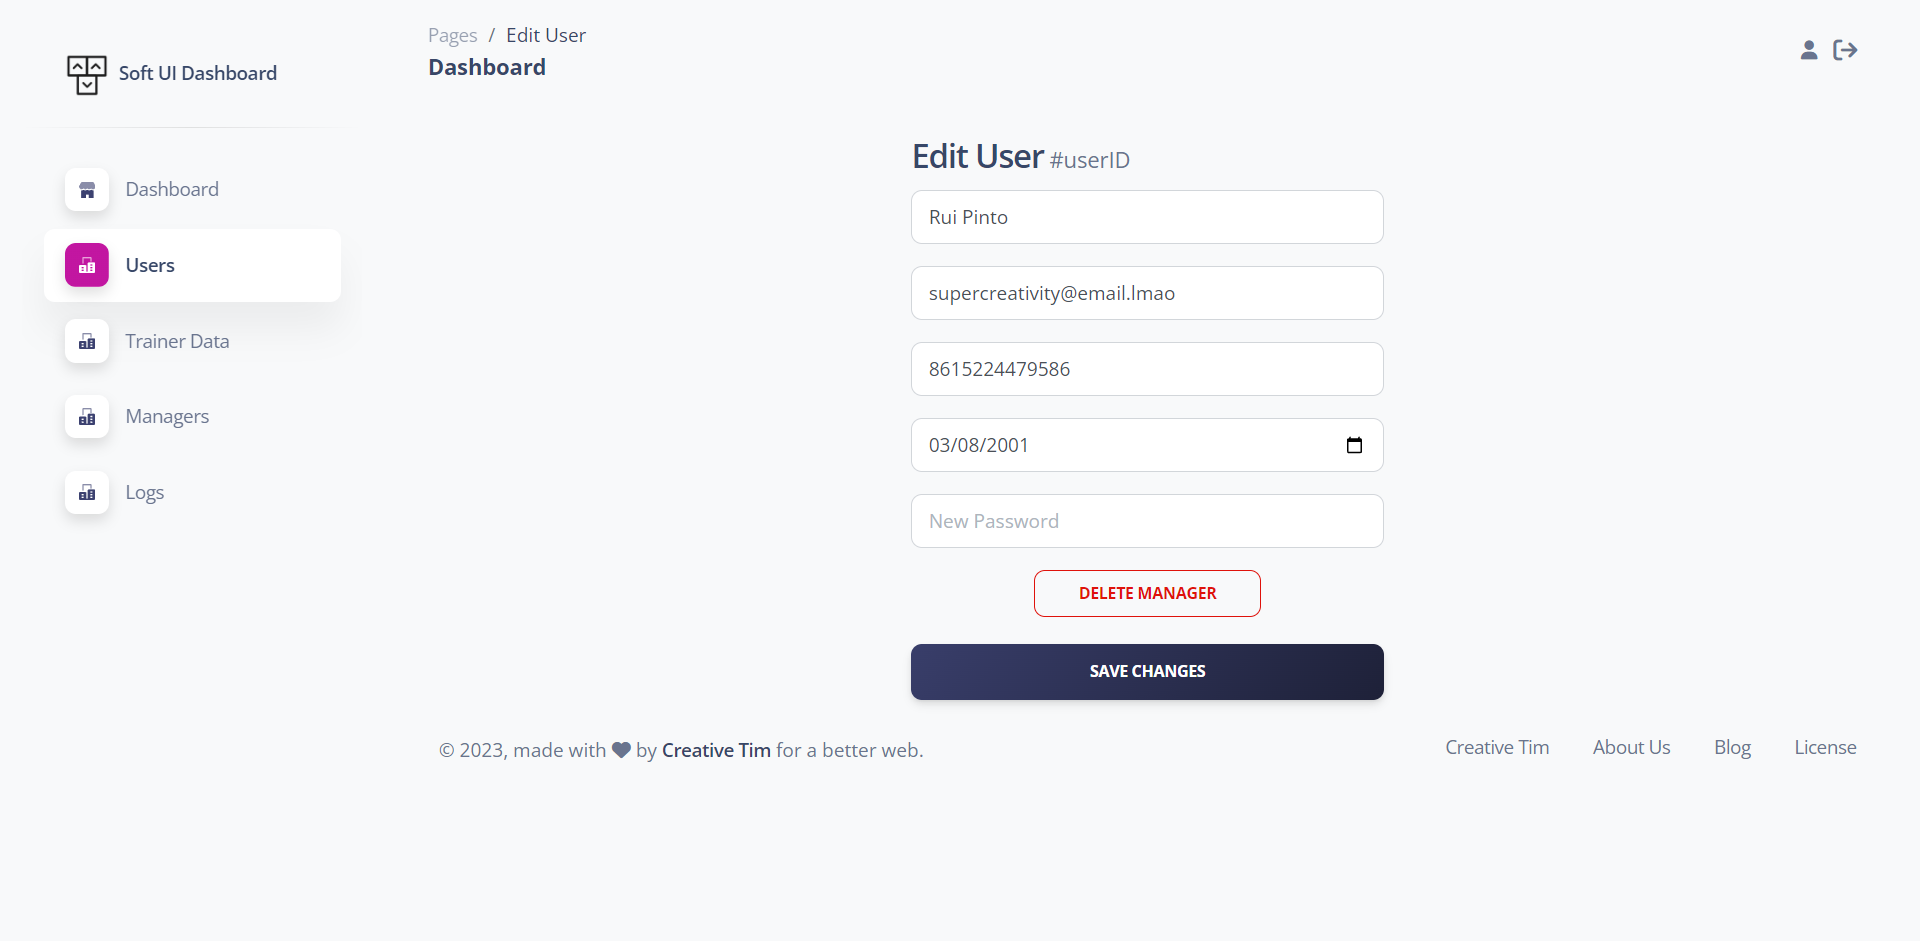
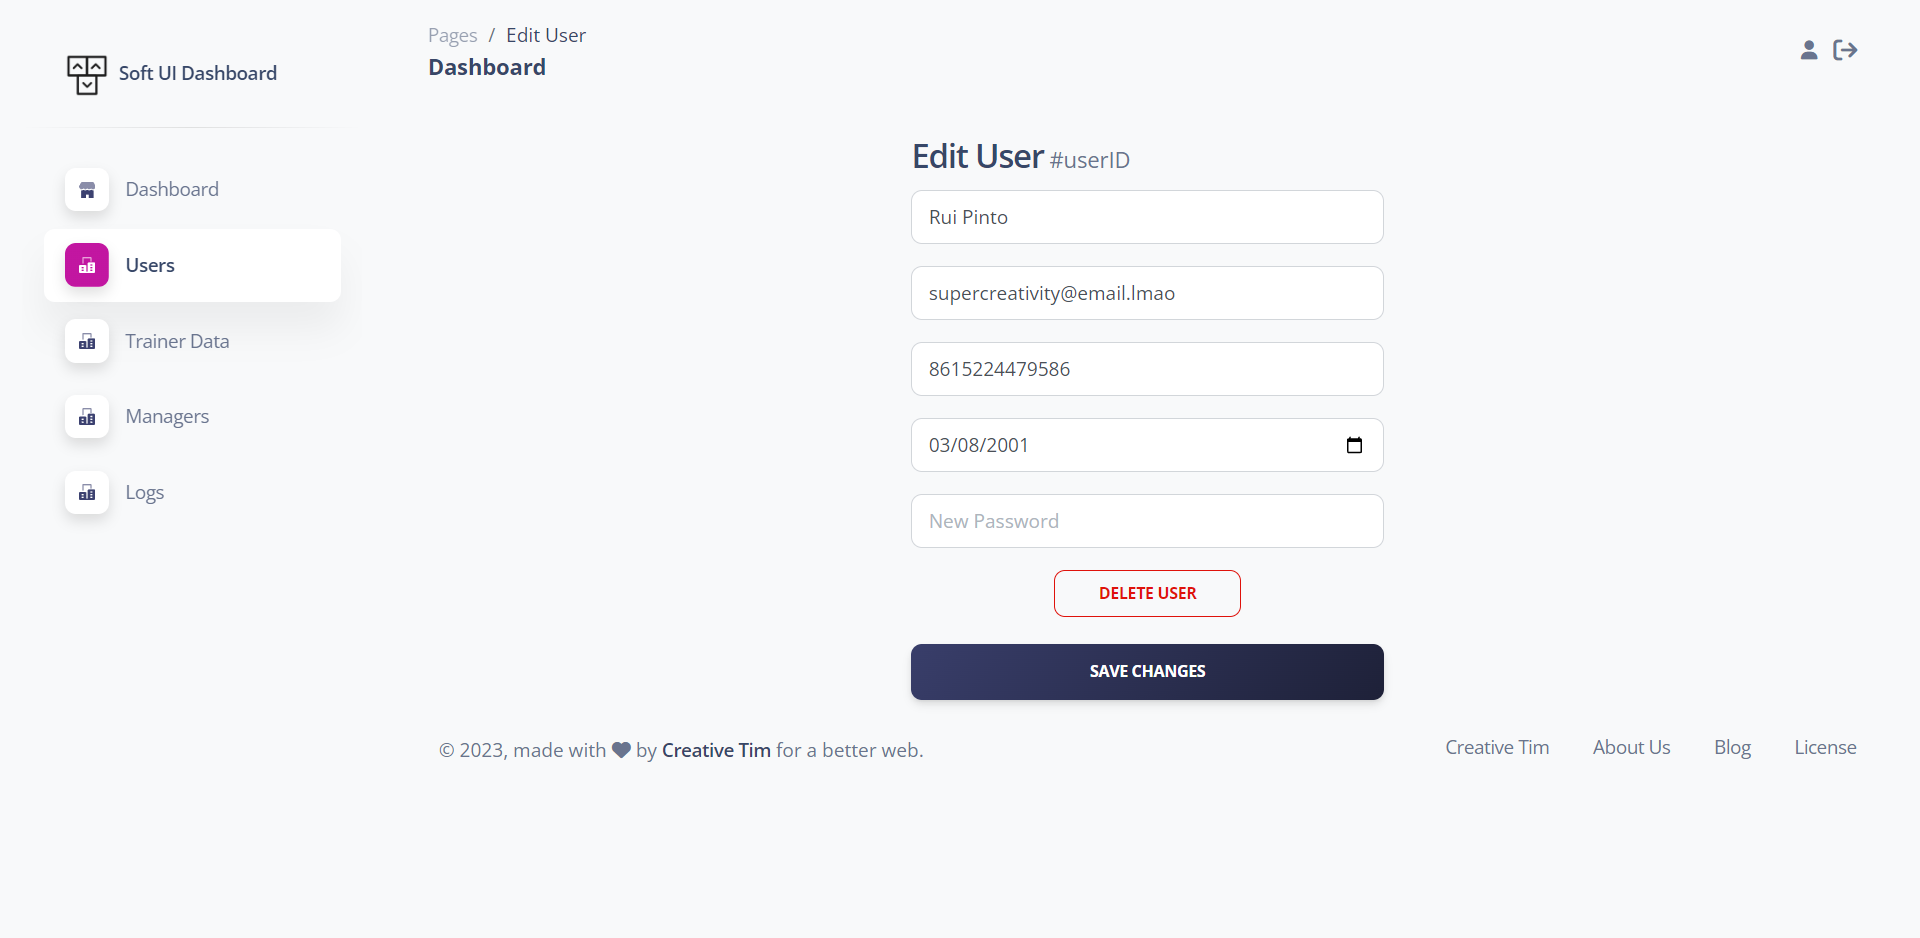
Documentation changes

diff --git a/pages/logs.html b/pages/logs.html
@@ -222,6 +222,15 @@
     </nav>
     <!-- End Navbar -->
     <div class="container-fluid py-4">
+      <div class="row mb-4">
+        <div class="col-8 d-flex"></div>
+        <div class="col-4 d-flex align-items-center">
+          <div class="input-group">
+            <span class="input-group-text text-body"><i class="fas fa-search" aria-hidden="true"></i></span>
+            <input type="text" id="searchBar" class="form-control" placeholder="Type here...">
+          </div>
+        </div>
+      </div>
       <div class="row">
         <div class="col-12">
           <div class="card mb-4">

diff --git a/pages/edituser.html b/pages/edituser.html
@@ -243,7 +243,7 @@
               <input type="password" class="form-control" placeholder="New Password" aria-label="Password" aria-describedby="password-addon">
             </div>
             <div class="text-center">
-              <button type="button" class="btn btn-sm btn-outline-danger">Delete Manager</button>
+              <button type="button" class="btn btn-sm btn-outline-danger">Delete User</button>
             </div>
             <div class="text-center">
               <button type="button" class="btn bg-gradient-dark w-100 my-1 mb-2">Save Changes</button>

diff --git a/Documentation/Documentation.md b/Documentation/Documentation.md
@@ -5,7 +5,8 @@
 **Page: sign-in.html**
 
 Function Name: Login
-Funtion Type: OnClick() Button: SignIn
+![SignIn](./Mockups/Webpage/buttonSignIn.png)
+Function Type: OnClick() Button: SignIn
    * @param {string} Email
    * @param {string} Password
    * @return {Bool}<br>
@@ -18,7 +19,8 @@ Description: This method will be used to Log in the manager in the Web applicati
 **Pages: dashboard.html, profile.html, users.html**
 
 Function Name: Logout
-Funtion Type: OnClick() Button: Logout<br>
+![Logout](./Mockups/Webpage/DashboardLogout.png)
+Function Type: OnClick() Button: Logout<br>
    * @param {int} Id<br>
    * @return {bool}<br>
   
@@ -45,6 +47,7 @@ Description: This method will be used to Log the User out. Sends the id via APIR
     
   **Page:Page: addUser.html**
 Function Name: add_User<br>
+![add_User](./Mockups/Webpage/buttonAddUser.png)
 Funtion Type: OnClick() Button: Add User<br>
    * @param {int} Id<br>
    * @param {string} Name<br>
@@ -57,8 +60,9 @@ Correct Operation: Send message that the add occurred successfully. <br>
 Wrong Operation: Send message to user that a error occurred.<br>
 Description: Creates a user in the database. The Manager needs to have Admin permissions.<br>
 
-**Page:Page: editUser.html**
+**Page: editUser.html**
 Function Name: edit_User<br>
+![edit_User](./Mockups/Webpage/buttonEditUser.png)
 Funtion Type: OnClick() Button: Edit User<br>
    * @param {int} Id<br>
    * @param {string} Name<br>
@@ -66,14 +70,15 @@ Funtion Type: OnClick() Button: Edit User<br>
    * @param {string} Password<br>
    * @param {date} Birthdate<br>
    * @return {bool}<br>
-  
+
 Correct Operation: Send message that the edit occurred successfully. <br>
 Wrong Operation: Send message to user that a error occurred. <br>
 Description: Updates a user information in the database. The Manager needs to have Admin permissions. <br>
 
-  
-   **Page: add_Manager.html** <br>
+
+   **Page: addManager.html** <br>
 Function Name: add_Manager<br>
+![add_Manager](./Mockups/Webpage/buttonAddManager.png)
 Funtion Type: OnClick() Button: Add User<br>
    * @param {int} Id<br>
    * @param {string} Name<br>
@@ -113,7 +118,8 @@ Description: Creates the log in the database, of every action that occurs in the
   
   
 **Page: Every Page**<br>
-Function Name: write_Logs<br>
+Function Name: see_Logs<br>
+![see_Logs](./Mockups/Webpage/Logs.png)
 Funtion Type: OnLoad() function<br>
    * @param {Logs} log <br>
    * @return {bool}<br>
@@ -135,8 +141,9 @@ Description: Shows the list of logs that occurred recently ,we will have pages, 
   **/
   
   
-**Page: : table.html**<br>
+**Page: : users.html, logs.html, manager.html**<br>
 Function Name Filter_By_Name <br>
+![Filter_By_Name](./Mockups/Webpage/filterByName.png)
 Funtion Type: OnChange() function  (Search bar)<br>
    * @param {string} name<br>
 
@@ -145,8 +152,9 @@ Wrong Operation or no name found: Show message that no charts were found. <br>
 Description: The Filter_By_Name function shows the Manager the chart with the name he wrote. <br>
 
   
-**Page: : table.html**
+**Page: : logs.html**
 Function Name Filter_By_Type <br>
+![Filter_By_Type](./Mockups/Webpage/filterByType.png)
 Funtion Type: OnChange() function  (Search bar)<br>
    * @param {string} type<br>
 Correct Operation: Will show the charts with that type. <br>
